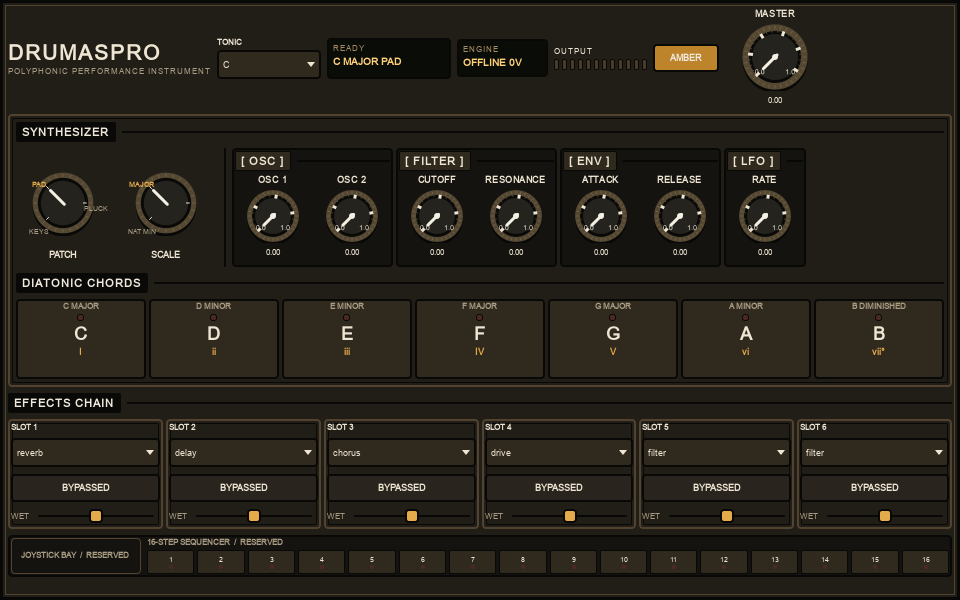
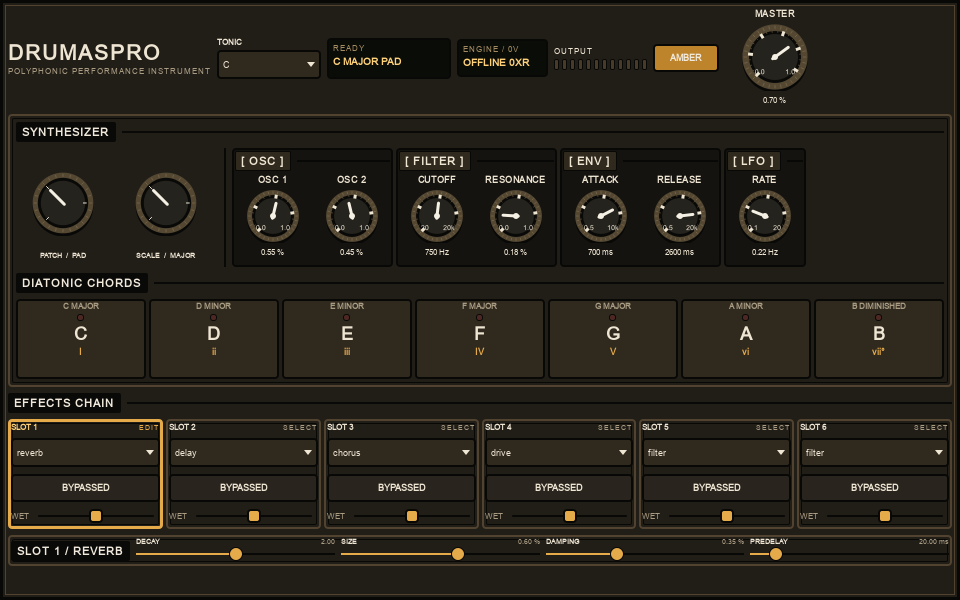
docs: record the effect inspector, Qt licensing and refreshed captures
Adds the Qt LGPL obligations, documents live oscillator levels and refreshes
the offscreen screenshots for both skins.

diff --git a/docs/ui.md b/docs/ui.md
@@ -34,14 +34,18 @@ ejecutable y abre la ventana:
 El ejecutable queda en
 `build\vs2026\src\ui\qt\Release\drumaspro.exe`. Para configurar, compilar y
 desplegar sin abrirlo, usa `.\tools\run-ui.ps1 -BuildOnly`.
+El script selecciona el backend software de Qt Quick si no se ha definido uno
+en el entorno; así usa el mismo backend con el que se producen las capturas de
+verificación.
 
 La piel predeterminada usa un panel gris-beige cálido, marcos negros y acentos
 verdes discretos; el tema ámbar/oscuro sigue disponible. El volumen principal y
 los parámetros tienen escalas impresas, perillas con estrías dibujadas,
-selectores rotativos discretos y teclas de acorde con LED rojo. La franja
-inferior reserva visualmente espacio para el joystick y un secuenciador de 16
-pasos, todavía sin lógica. Los seis efectos se muestran como módulos
-individuales con el número de slot correcto.
+selectores rotativos discretos y teclas de acorde con LED rojo. Los seis efectos
+se muestran como módulos individuales con el número de slot correcto; el slot
+seleccionado lleva borde de acento y la franja inferior es su inspector: muestra
+los parámetros publicados por el registro del efecto, con rango, unidad y curva,
+y permite moverlos en vivo. Todavía no hay joystick ni secuenciador.
 
 Las fuentes son las instaladas en el sistema (Arial Narrow/Arial para
 serigrafía y `monospace` para LCD); no se ha añadido ni
@@ -55,13 +59,17 @@ pulido visual.
   de comandos NoteOn/NoteOff y los espejos de parámetros/cadena; no conoce Qt.
 - `EngineBridge` es la única fachada QObject. Su `QTimer` refresca el estado
   cada 25 ms (40 Hz), leyendo contadores atómicos y actualizando los modelos.
-  El medidor muestra el pico real de la salida con decaimiento; las voces
-  activas permanecen indicadas aparte en el LCD del motor.
-- Los modelos de parámetros, patches, cadena y acordes alimentan los
-  componentes QML. Un cambio de efecto prepara el objeto en el hilo de control
-  antes de transferir su propiedad por la cola.
+  El medidor muestra el pico real de la salida con decaimiento; el LCD del
+  motor indica las voces activas en su rótulo y los XRUNS acumulados junto al
+  estado.
+- Los modelos de parámetros, patches, cadena, parámetros de efecto y acordes
+  alimentan los componentes QML. Un cambio de efecto prepara el objeto en el
+  hilo de control antes de transferir su propiedad por la cola; sus valores por
+  defecto se copian al espejo para que el inspector muestre lo que suena.
 - Un acorde se encola entero o no se encola. Si no hay capacidad para todas sus
-  notas, se descarta y se cuenta; la UI no bloquea el hilo de audio.
+  notas, se descarta y se cuenta; la UI no bloquea el hilo de audio. Las notas
+  compartidas entre acordes mantenidos se contabilizan: liberar un acorde no
+  corta una nota que otro sigue usando, y la nota común no se reataca.
 
 El tema centraliza colores, tipografía, dimensiones y espaciado en
 `Theme.qml`; el control `AMBER` alterna entre la paleta predeterminada y la
@@ -77,9 +85,11 @@ selector.
 
 Con `DRUMAS_BUILD_UI=ON`, `ctest --preset vs2026-release` incluye `qt_ui_tests`.
 Ese test carga la pantalla en la plataforma `offscreen`, comprueba los modelos
-y compara los batches enviados por botones y atajos; también guarda capturas a
-1280×720 y 960×600 en ambos temas para inspección. No abre un dispositivo de
-audio. Las imágenes son evidencia de render QML y no certifican el aspecto en
+(incluido el registro de parámetros de cada efecto y la selección de slot) y
+compara los batches enviados por botones y atajos; también guarda capturas a
+1280×720 y 960×600 en ambos temas para inspección. La prueba `qml_theme_singleton`
+inspecciona el `qmldir` que CMake genera para la aplicación y falla si `Theme`
+deja de registrarse como singleton. No se abre un dispositivo de audio. Las imágenes son evidencia de render QML y no certifican el aspecto en
 una ventana nativa ni la calidad sonora. La revisión manual de audio/dispositivo sigue pendiente; véase
 [`ui-checklist.md`](./ui-checklist.md).
 

diff --git a/README.md b/README.md
@@ -17,8 +17,8 @@ phaser, tremolo, vibrato, lo-fi, shimmer, EQ).
 ## Requisitos
 
 - Windows 10/11 x64.
-- **CMake 3.21 o superior** (los presets usan `CMakePresets.json` v6; con
-  CMake 4.x se ha verificado el proyecto).
+- **CMake 3.21 o superior** (los presets usan el esquema 3 de
+  `CMakePresets.json`; con CMake 4.x se ha verificado el proyecto).
 - **MSVC con C++20**: Visual Studio 2022 (17.x) o Visual Studio 2026 (18.x).
   - DSPark 1.7.0 declara soporte probado desde MSVC 19.50 (VS 2026); VS 2022
     compila el proyecto en CI, pero es la combinación que el upstream no
@@ -67,7 +67,9 @@ Si `cmake` no está en el `PATH`, usa el que viene con Visual Studio:
 ```
 
 La UI permite elegir patch, tonalidad mayor/menor, tocar acordes manteniendo el
-botón pulsado y controlar los parámetros y seis slots de efectos.
+botón pulsado, controlar los parámetros del sintetizador y editar los seis slots
+de efectos. Al seleccionar un slot, la franja inferior muestra sus parámetros
+reales (registro, rango, unidad y curva) para moverlos en vivo.
 
 - `A S D F G H J` tocan C4 D4 E4 F4 G4 A4 B4 (notas de 400 ms por pulsación: una
   consola no envía eventos de "tecla soltada").
@@ -108,9 +110,11 @@ denormales, el grafo de audio (**cero asignaciones con 32 voces, 6 insertos y
 limitador**, incluido un swap) y un benchmark de CPU que imprime el porcentaje
 del presupuesto de bloque; además, teoría musical (calidades, inversiones,
 límites MIDI, escalas y acordes diatónicos), FFT de fundamentales, continuidad
-de cambio de acorde, espejo de parámetros/cadena, aislamiento de Qt y pruebas
-de modelos, carga QML y captura offscreen. La CI deja la UI Qt desactivada; para
-ejecutar su prueba local hay que configurar con `DRUMAS_BUILD_UI=ON`.
+de cambio de acorde, niveles de oscilador en vivo, espejo de parámetros/cadena,
+modelo de parámetros de efecto, aislamiento de Qt, guardia del singleton QML y
+pruebas de modelos, carga QML y captura offscreen. La CI deja la UI Qt
+desactivada; para ejecutar su prueba local hay que configurar con
+`DRUMAS_BUILD_UI=ON`.
 
 Mediciones reales de esta entrega:
 
@@ -203,9 +207,9 @@ es añadir una entrada a `src/synth/PatchBank.h`: no se toca el motor.
 - La sincronía de delay por BPM está reservada en `ChainDescription::tempoBpm`,
   pero todavía no se expone en la consola; el tiempo se edita en ms.
 - El LFO es global (una fase para todo el pool): no hay drift analógico por voz.
-- Solo cutoff, resonancia, tiempos ADSR, LFO rate/shape y master son editables
-  en vivo; el resto de parámetros de timbre requiere un patch nuevo o una nota
-  nueva.
+- Solo cutoff, resonancia, niveles de oscilador, tiempos ADSR, LFO rate/shape y
+  master son editables en vivo; el resto de parámetros de timbre requiere un
+  patch nuevo o una nota nueva.
 - La latencia mostrada por el motor es la de insertos + limitador; la latencia
   del driver es una **cota inferior** adicional y el periodo real de callback se
   imprime aparte.
@@ -215,7 +219,6 @@ es añadir una entrada a `src/synth/PatchBank.h`: no se toca el motor.
   humana; ver la checklist de la entrega de la etapa.
 - La captura QML offscreen se genera en tests y muestra los modelos; no sustituye
   la comprobación humana en una ventana nativa ni la escucha con un dispositivo.
-- El workflow de CI de GitHub Actions no se ha podido consultar desde el
-  entorno de desarrollo; la verificación local Release (`/W4 /WX`, 96/96
-  tests con Qt activada) sí está hecha. El job de CI configura
-  `DRUMAS_BUILD_UI=OFF` para que Qt siga siendo opcional.
+- La verificación local Release (`/W4 /WX`, 99/99 tests con Qt activada) está
+  hecha. El workflow de GitHub Actions configura `DRUMAS_BUILD_UI=OFF` para que
+  Qt siga siendo opcional, así que no cubre la UI ni sus capturas.

diff --git a/docs/ui-checklist.md b/docs/ui-checklist.md
@@ -18,8 +18,8 @@ como verificado sin ejecutarlo.
 
 ## Comprobaciones manuales
 
-- [ ] El estado del motor pasa a `ONLINE`; XRUNS permanece en cero al dejar la
-  interfaz abierta y mover controles.
+- [ ] El estado del motor pasa a `ONLINE`; el LCD muestra voces activas y
+  XRUNS, que permanece en cero al dejar la interfaz abierta y mover controles.
 - [ ] Cambiar patch, tonalidad y modo actualiza el contenido mostrado sin
   desincronizar los modelos.
 - [ ] Mantener pulsado cada botón de acorde produce el acorde indicado y al
@@ -27,11 +27,16 @@ como verificado sin ejecutarlo.
   como el de las teclas 1–7.
 - [ ] Las teclas 1–7 producen los mismos acordes; auto-repeat no dispara notas
   adicionales y los controles enfocados conservan sus teclas.
+- [ ] Mantener dos acordes con notas comunes (por ejemplo C y Em) no reataca la
+  nota compartida ni la corta al soltar el primero.
 - [ ] El medidor responde al nivel de salida y cae gradualmente al terminar el
   sonido; el LCD indica por separado las voces activas.
 - [ ] Mover cada knob cambia el parámetro esperado sin saltos audibles.
 - [ ] Activar/bypassear los seis slots y cambiar tipos/mezcla no produce clics
   ni bloquea la interfaz.
+- [ ] Seleccionar cada slot actualiza la franja de parámetros con el tipo y los
+  valores correctos; moverlos cambia el efecto sin saltos y el valor mostrado
+  coincide con el oído.
 - [ ] Bloquear o arrastrar la ventana no causa glitches audibles ni deja el
   motor en un estado incoherente.
 - [ ] En el tema predeterminado, el panel gris-beige, los marcos negros, la
@@ -39,8 +44,9 @@ como verificado sin ejecutarlo.
   tema ámbar conserva contraste equivalente.
 - [ ] En 1280×720 y 960×600 no hay texto cortado, glifos vacíos, controles
   solapados ni contenido fuera de la ventana.
-- [ ] El espacio del joystick y del secuenciador se percibe como reservado; no
-  aparenta ser un control funcional.
+- [ ] La franja inferior no se confunde con un adorno: sus deslizadores
+  responden al clic, al arrastre y a la rueda, y el slot seleccionado se
+  distingue con el borde de acento.
 
 Anota sistema operativo, dispositivo/backend, frecuencia y tamaño de bloque,
 resultado de XRUNS, incidencias audibles/visuales y captura de la ventana

diff --git a/docs/adr/0007-patch-switching-and-live-parameters.md b/docs/adr/0007-patch-switching-and-live-parameters.md
@@ -34,6 +34,7 @@ El processor mantiene `LiveParameters` con los valores que un `SetParam` puede
 mover sobre voces ya sonando:
 
 - `filter.cutoff` y `filter.resonance`, con rampa de 10 ms por voz;
+- `osc1.level` y `osc2.level`, con una rampa independiente por voz;
 - los tiempos ADSR de amplitud y de filtro, recalculando las pendientes de la
   envolvente (la etapa actual continúa desde el nivel que tenía);
 - `master.gain`, como hasta ahora, suavizado.
@@ -47,9 +48,9 @@ los aplica a las voces que ya suenan: siguen con su patch capturado. El
 siguiente note-on ya usa los valores nuevos.
 
 Los parámetros de timbre que no están en el conjunto en vivo (forma de onda,
-niveles, unison, profundidad de LFO) solo cambian al cambiar de patch o al
-tocar una nota nueva. Se documenta como limitación de la etapa, no como
-comportamiento accidental.
+unison, profundidad de LFO) solo cambian al cambiar de patch o al tocar una nota
+nueva. Se documenta como limitación de la etapa, no como comportamiento
+accidental.
 
 ### 3. LFO global
 
@@ -85,3 +86,11 @@ viaja por la cola SPSC por valor, sin punteros ni asignaciones.
   vivo sin tocar la cola ni el contrato de hilos.
 - El LFO global hace que un cambio de `lfo.rate` afecte a todas las voces al
   instante; es lo deseado para un control de "modulación" del instrumento.
+
+## Enmienda (2026-11-26)
+
+Se añadieron `osc1.level` y `osc2.level` al conjunto en vivo. Cada voz aplica su
+nivel con una rampa de 10 ms, y `SelectPatch` sigue sin tocar las voces que ya
+suenan: los niveles nuevos solo llegan a las notas siguientes salvo que el
+usuario mueva el control, que es intencionalmente global. El resto del ADR
+sigue vigente.

diff --git a/THIRD_PARTY_LICENSES.md b/THIRD_PARTY_LICENSES.md
@@ -14,6 +14,7 @@ copied verbatim from the vendored `LICENSE` files, not retyped.
 | miniaudio | 0.11.26 | Public domain (Unlicense) **or** MIT No Attribution, at our choice | Audio device I/O (WASAPI) | Yes |
 | DSPark | 1.7.0 | MIT | DSP primitives (minBLEP step table, state-variable filter, ADSR, smoothing, SPSC queue, denormal guard, FFT) and the reverb/chorus/limiter effects | Yes |
 | Catch2 | 3.9.1 | Boost Software License 1.0 | Unit tests (build-time only, not distributed) | Yes |
+| Qt | 6.8.3 | LGPL v3 (dynamic linking) or commercial | Optional desktop UI (Qt Core/Gui/Qml/Quick/QuickControls2/QuickLayouts) | Yes, if distributed dynamically under LGPL terms |
 
 Notes:
 
@@ -27,6 +28,13 @@ Notes:
   in this file. The three `Effects/` headers added for stage 5
   (`AlgorithmicReverb.h`, `Chorus.h`, `Limiter.h`) are under the same MIT
   license; hashes are recorded in `third_party/README.md`.
+- Qt is not vendored: it is an optional system dependency linked dynamically.
+  The UI target is built only with `DRUMAS_BUILD_UI=ON`; `drumaspro_console`
+  does not link Qt. Distributing `drumaspro.exe` under LGPL v3 requires shipping
+  the LGPL text, keeping Qt replaceable (DLLs, no static link) and offering the
+  corresponding source for the Qt version used. The exact terms are in Qt's
+  `LICENSE.LGPLv3`; this document does not replace legal review. A commercial
+  Qt license is the alternative if closed-source static linking is desired.
 
 ## miniaudio 0.11.26
 

diff --git a/docs/synth.md b/docs/synth.md
@@ -59,11 +59,12 @@ Pad es ~0.30, con Pluck ~0.25 y con Keys ~0.13 (velocidad 0.8).
 - `SelectPatch` cambia el patch de las **notas siguientes**. Las voces que ya
   suenan conservan el patch que capturaron y terminan su release con él; no
   hay ningún parámetro que cambie a mitad de nota, así que no hay clic.
-- `SetParam` con los ids en vivo (cutoff, resonancia, tiempos ADSR, master)
-  actualiza un overlay `LiveParameters` que se aplica a **todas** las voces con
-  rampa de 10 ms. Una voz nueva arranca en el valor en vivo.
-- Los parámetros de timbre que no están en el overlay (forma de onda, niveles,
-  unison, profundidad de LFO) solo cambian con un patch nuevo o una nota nueva.
+- `SetParam` con los ids en vivo (cutoff, resonancia, niveles de oscilador,
+  tiempos ADSR, LFO rate/shape y master) actualiza un overlay `LiveParameters`
+  que se aplica a **todas** las voces con rampa de 10 ms. Una voz nueva arranca
+  en el valor en vivo.
+- Los parámetros de timbre que no están en el overlay (forma de onda, unison,
+  profundidad de LFO) solo cambian con un patch nuevo o una nota nueva.
 
 ## Rendimiento
 

diff --git a/docs/parameters.md b/docs/parameters.md
@@ -31,11 +31,11 @@ cual.
 | ID (hex) | Nombre | Rango | Unidad | Curva | Defecto | En vivo |
 |---|---|---|---|---|---|---|
 | `0xE0A7DF5C` | `osc1.waveform` | 0..3 | — | lineal | 1 (triángulo) | no |
-| `0x89CED89B` | `osc1.level` | 0..1 | proporción | lineal | 0.5 | no |
+| `0x89CED89B` | `osc1.level` | 0..1 | proporción | lineal | 0.5 | **sí** |
 | `0x59C9F136` | `osc1.detune` | −50..50 | cents | lineal | 0 | no |
 | `0xE229FE60` | `osc1.pulseWidth` | 0.05..0.95 | proporción | lineal | 0.5 | no |
 | `0xD5DBA827` | `osc2.waveform` | 0..3 | — | lineal | 1 (triángulo) | no |
-| `0x96BB6272` | `osc2.level` | 0..1 | proporción | lineal | 0.5 | no |
+| `0x96BB6272` | `osc2.level` | 0..1 | proporción | lineal | 0.5 | **sí** |
 | `0xB21057F1` | `osc2.detune` | −50..50 | cents | lineal | 0 | no |
 | `0x6AAEA6D7` | `osc2.pulseWidth` | 0.05..0.95 | proporción | lineal | 0.5 | no |
 | `0x12008F49` | `sub.level` | 0..1 | proporción | lineal | 0 | no |
